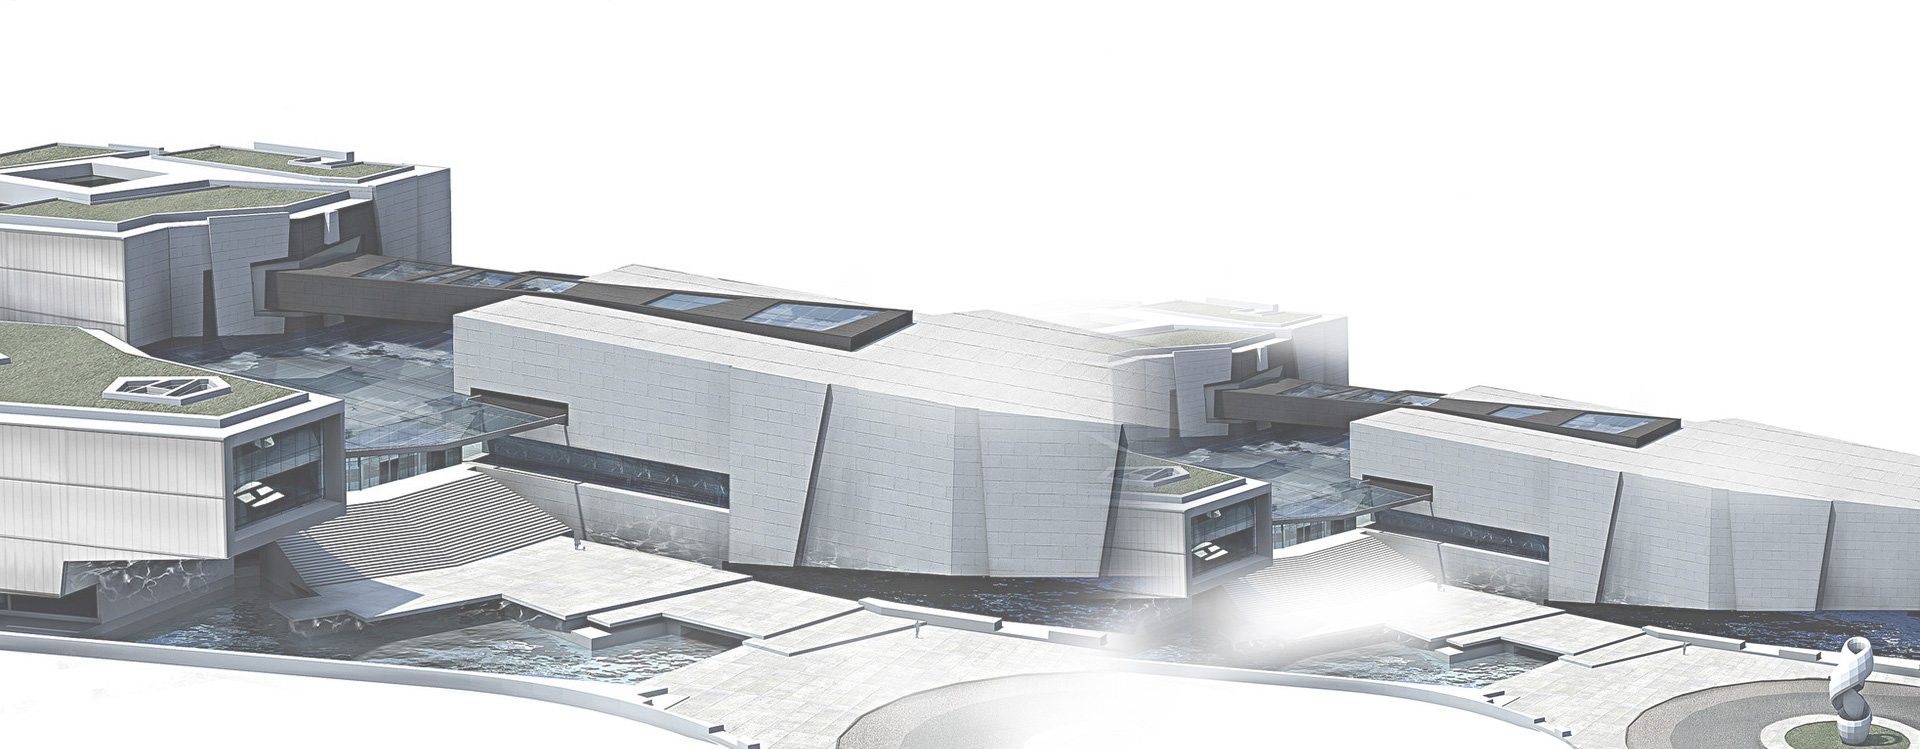
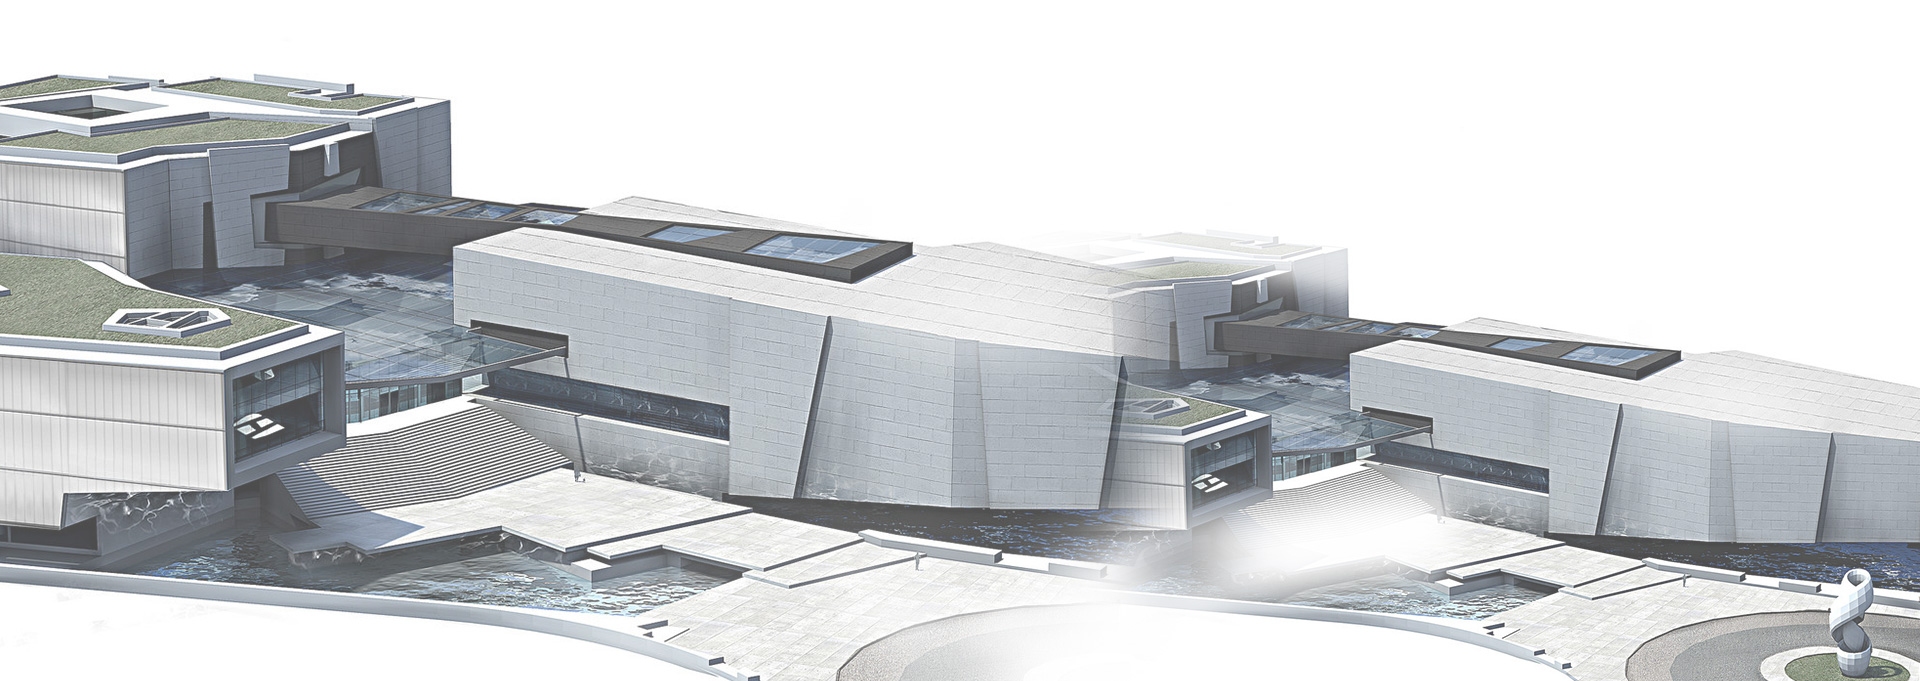
0.5.1

diff --git a/index.html b/index.html
@@ -1,156 +1,197 @@
 <!DOCTYPE html>
 <html lang="ru">
 
-    <head>
-        <meta charset="UTF-8">
-        <title>Novaboard</title>
+<head>
+    <meta charset="UTF-8">
+    <title>Novaboard</title>
 
-        <link rel="apple-touch-icon" sizes="180x180" href="favicons/apple-touch-icon.png">
-        <link rel="icon" type="image/png" sizes="32x32" href="favicons/favicon-32x32.png">
-        <link rel="icon" type="image/png" sizes="16x16" href="favicons/favicon-16x16.png">
-        <link rel="manifest" href="favicons/site.webmanifest">
-        <link rel="mask-icon" href="favicons/safari-pinned-tab.svg" color="#5bbad5">
-        <link rel="shortcut icon" href="favicons/favicon.ico">
-        <meta name="apple-mobile-web-app-title" content="Novaboard">
-        <meta name="application-name" content="Novaboard">
-        <meta name="msapplication-TileColor" content="#603cba">
-        <meta name="msapplication-config" content="favicons/browserconfig.xml">
-        <meta name="theme-color" content="#ffffff">
+    <link rel="apple-touch-icon" sizes="180x180" href="favicons/apple-touch-icon.png">
+    <link rel="icon" type="image/png" sizes="32x32" href="favicons/favicon-32x32.png">
+    <link rel="icon" type="image/png" sizes="16x16" href="favicons/favicon-16x16.png">
+    <link rel="manifest" href="favicons/site.webmanifest">
+    <link rel="mask-icon" href="favicons/safari-pinned-tab.svg" color="#5bbad5">
+    <link rel="shortcut icon" href="favicons/favicon.ico">
+    <meta name="apple-mobile-web-app-title" content="Novaboard">
+    <meta name="application-name" content="Novaboard">
+    <meta name="msapplication-TileColor" content="#603cba">
+    <meta name="msapplication-config" content="favicons/browserconfig.xml">
+    <meta name="theme-color" content="#ffffff">
 
-        <link rel="stylesheet" href="css/slick.css">
-        <link rel="stylesheet" href="css/slick-theme.css">
-        <link rel="stylesheet" href="css/style.css">
-    </head>
+    <link rel="stylesheet" href="css/slick.css">
+    <link rel="stylesheet" href="css/slick-theme.css">
+    <link rel="stylesheet" href="css/style.css">
+</head>
 
-    <body>
-        <header class="header">
-            <div class="container__out">
-                <div class="container">
-                    <div class="header__content">
-                        <nav class="header__navigation">
-                            <ul class="header__menu">
-                                <li class="header__item">
-                                    <a href="" class="header__link is-active">Главная</a>
-                                </li>
-                                <li class="header__item">
-                                    <a href="" class="header__link">О компании</a>
-                                </li>
-                                <li class="header__item">
-                                    <a href="" class="header__link">Вакансии</a>
-                                </li>
-                                <li class="header__item">
-                                    <a href="" class="header__link">Продукция</a>
-                                </li>
-                                <li class="header__item">
-                                    <a href="" class="header__link">Фотогалерея</a>
-                                </li>
-                                <li class="header__item">
-                                    <a href="" class="header__link">Новости</a>
-                                </li>
-                                <li class="header__item">
-                                    <a href="" class="header__link">Статьи</a>
-                                </li>
-                                <li class="header__item">
-                                    <a href="" class="header__link">Контакты</a>
-                                </li>
-                            </ul>
-                        </nav>
-                    </div>
+<body>
+    <header class="header">
+        <div class="container__out">
+            <div class="container">
+                <div class="header__content">
+                    <nav class="header__navigation">
+                        <ul class="header__menu">
+                            <li class="header__item">
+                                <a href="" class="header__link is-active">Главная</a>
+                            </li>
+                            <li class="header__item">
+                                <a href="" class="header__link">О компании</a>
+                            </li>
+                            <li class="header__item">
+                                <a href="" class="header__link">Вакансии</a>
+                            </li>
+                            <li class="header__item">
+                                <a href="" class="header__link">Продукция</a>
+                            </li>
+                            <li class="header__item">
+                                <a href="" class="header__link">Фотогалерея</a>
+                            </li>
+                            <li class="header__item">
+                                <a href="" class="header__link">Новости</a>
+                            </li>
+                            <li class="header__item">
+                                <a href="" class="header__link">Статьи</a>
+                            </li>
+                            <li class="header__item">
+                                <a href="" class="header__link">Контакты</a>
+                            </li>
+                        </ul>
+                    </nav>
                 </div>
             </div>
-        </header>
-        <div class="title">
-            <div class="title__shadow">
-                <img src="image/shadow-1.png" alt="" class="title__shadow-image">
-            </div>
-            <div class="container__out">
-                <div class="container">
-                    <div class="title__heading">
-                        <div class="title__heading-logo">
-                            <a href="index.html" class="title__heading-logo-link"><img src="image/logo.png" alt="" class="title__heading-logo-image"></a>
+        </div>
+    </header>
+    <div class="title">
+        <div class="title__shadow">
+            <img src="image/shadow-1.png" alt="" class="title__shadow-image">
+        </div>
+        <div class="container__out">
+            <div class="container">
+                <div class="title__heading">
+                    <div class="title__heading-logo">
+                        <a href="index.html" class="title__heading-logo-link"><img src="image/logo.png" alt=""
+                                class="title__heading-logo-image"></a>
+                    </div>
+                    <div class="title__heading-contacts">
+                        <div class="title__heading-social">
+                            <span class="title__heading-social-text">Мы в социальных сетях</span>
+                            <a href="https://www.linkedin.com/" target="_blank"
+                                class="title__heading-social-li-link"><img src="image/linkedin.png" alt=""
+                                    class="title__heading-social-li-image"></a>
+                            <a href="https://vk.com/" target="_blank" class="title__heading-social-vk-link"><img
+                                    src="image/vk.png" alt="" class="title__heading-social-vk-image"></a>
                         </div>
-                        <div class="title__heading-contacts">
-                            <div class="title__heading-social">
-                                <span class="title__heading-social-text">Мы в социальных сетях</span>
-                                <a href="https://www.linkedin.com/" target="_blank" class="title__heading-social-li-link"><img src="image/linkedin.png" alt="" class="title__heading-social-li-image"></a>
-                                <a href="https://vk.com/" target="_blank" class="title__heading-social-vk-link"><img src="image/vk.png" alt="" class="title__heading-social-vk-image"></a>
-                            </div>
-                            <div class="title__heading-telephone">тел:<a href="tel:+380552314410" class="title__heading-telephone-link">+38(0552)314-410</a>,
-                                <a href="tel:+380552314403" class="title__heading-telephone-link">314-403</a>; факс:<a href="tel:+380552359214" class="title__heading-telephone-link">+38(0552)359-214</a><br>
-                                e-mail:<a href="mailto:info@penoboard.com" class="title__heading-telephone-link">info@penoboard.com</a>
-                            </div>
-                            <div class="title__heading-contacts-search">
-                                <form action="#" class="title__heading-contacts-search-form">
-                                    <input type="search" class="title__heading-contacts-search-input">
-                                    <button type="submit" class="title__heading-contacts-search-submit"><img src="image/submit.png" alt=""></button>
-                                </form>
+                        <div class="title__heading-telephone">тел:<a href="tel:+380552314410"
+                                class="title__heading-telephone-link">+38(0552)314-410</a>,
+                            <a href="tel:+380552314403" class="title__heading-telephone-link">314-403</a>; факс:<a
+                                href="tel:+380552359214" class="title__heading-telephone-link">+38(0552)359-214</a><br>
+                            e-mail:<a href="mailto:info@penoboard.com"
+                                class="title__heading-telephone-link">info@penoboard.com</a>
+                        </div>
+                        <div class="title__heading-contacts-search">
+                            <form action="#" class="title__heading-contacts-search-form">
+                                <input type="search" class="title__heading-contacts-search-input">
+                                <button type="submit" class="title__heading-contacts-search-submit"><img
+                                        src="image/submit.png" alt=""></button>
+                            </form>
+                        </div>
+                    </div>
+                </div>
+                <div class="title__slider js-title__slider">
+                    <div>
+                        <div class="title__slider-slide" style="background-image:url(image/slide-1.jpg);">
+                            <div class="title__slider-slide-text">
+                                <div class="title__slider-slide-text-string1">сегодня инновация -<br>завтра
+                                    необходимость</div>
+                                <div class="title__slider-slide-text-string2">энергосбережение нового поколения</div>
                             </div>
                         </div>
                     </div>
-                    <div class="title__slider js-title__slider">
-                        <div>
-                            <div class="title__slider-slide" style="background-image:url(image/slide-1.jpg);">
-                                <div class="title__slider-slide-text">
-                                    <div class="title__slider-slide-text-string1">сегодня инновация -<br>завтра необходимость</div>
-                                    <div class="title__slider-slide-text-string2">энергосбережение нового поколения</div>
-                                </div>
+                    <div>
+                        <div class="title__slider-slide" style="background-image:url(image/slide-2.jpg);">
+                            <div class="title__slider-slide-text">
+                                <div class="title__slider-slide-text-string1">сегодня инновация -<br>завтра
+                                    необходимость</div>
+                                <div class="title__slider-slide-text-string2">высокие экологические стандарты</div>
                             </div>
                         </div>
-                        <div>
-                            <div class="title__slider-slide" style="background-image:url(image/slide-2.jpg);">
-                                <div class="title__slider-slide-text">
-                                    <div class="title__slider-slide-text-string1">сегодня инновация -<br>завтра необходимость</div>
-                                    <div class="title__slider-slide-text-string2">высокие экологические стандарты</div>
-                                </div>
+                    </div>
+                    <div>
+                        <div class="title__slider-slide" style="background-image:url(image/slide-3.jpg);">
+                            <div class="title__slider-slide-text">
+                                <div class="title__slider-slide-text-string1">сегодня инновация -<br>завтра
+                                    необходимость</div>
+                                <div class="title__slider-slide-text-string2">снижение трат на отопление</div>
                             </div>
                         </div>
-                        <div>
-                            <div class="title__slider-slide" style="background-image:url(image/slide-3.jpg);">
-                                <div class="title__slider-slide-text">
-                                    <div class="title__slider-slide-text-string1">сегодня инновация -<br>завтра необходимость</div>
-                                    <div class="title__slider-slide-text-string2">снижение трат на отоплении</div>
-                                </div>
+                    </div>
+                    <div>
+                        <div class="title__slider-slide" style="background-image:url(image/slide-4.jpg);">
+                            <div class="title__slider-slide-text">
+                                <div class="title__slider-slide-text-string1">сегодня инновация -<br>завтра
+                                    необходимость</div>
+                                <div class="title__slider-slide-text-string2">полная пожаробезопасность</div>
                             </div>
                         </div>
-                        <div>
-                            <div class="title__slider-slide" style="background-image:url(image/slide-4.jpg);">
-                                <div class="title__slider-slide-text">
-                                    <div class="title__slider-slide-text-string1">сегодня инновация -<br>завтра необходимость</div>
-                                    <div class="title__slider-slide-text-string2">полная пожаробезопасность</div>
-                                </div>
-                            </div>
-                        </div>
-                        <div>
-                            <div class="title__slider-slide" style="background-image:url(image/slide-5.jpg);">
-                                <div class="title__slider-slide-text">
-                                    <div class="title__slider-slide-text-string1">сегодня инновация -<br>завтра необходимость</div>
-                                    <div class="title__slider-slide-text-string2">экономия традиционных ресурсов</div>
-                                </div>
+                    </div>
+                    <div>
+                        <div class="title__slider-slide" style="background-image:url(image/slide-5.jpg);">
+                            <div class="title__slider-slide-text">
+                                <div class="title__slider-slide-text-string1">сегодня инновация -<br>завтра
+                                    необходимость</div>
+                                <div class="title__slider-slide-text-string2">экономия традиционных ресурсов</div>
                             </div>
                         </div>
                     </div>
                 </div>
             </div>
         </div>
-        <div class="polystyrene">
-            <div class="container__out">
-                <div class="container">
-                    <div class="polystyrene__content">
-                        <div class="polystyrene__content-logo">
-                            <img src="image/logo-2.png" alt="" class="polystyrene__content-logo-image">
-                        </div>
-                        <div class="polystyrene__content-title">
-                            Экструдированный  пенополистирол
-                        </div>
-                        <div class="polystyrene__content-youtube">
-                            <iframe width="572" height="314" src="https://www.youtube.com/embed/yfl3AbO-tAU" title="YouTube video player" frameborder="0" allow="accelerometer; autoplay; clipboard-write; encrypted-media; gyroscope; picture-in-picture" allowfullscreen></iframe>
-                        </div>
+    </div>
+    <div class="polystyrene">
+        <div class="container__out">
+            <div class="container">
+                <div class="polystyrene__content">
+                    <div class="polystyrene__content-logo">
+                        <img src="image/logo-2.png" alt="" class="polystyrene__content-logo-image">
+                    </div>
+                    <div class="polystyrene__content-title">
+                        Экструдированный пенополистирол
+                    </div>
+                    <div class="polystyrene__content-youtube">
+                        <iframe width="572" height="316" src="https://www.youtube.com/embed/yfl3AbO-tAU"
+                            title="YouTube video player" frameborder="0"
+                            allow="accelerometer; autoplay; clipboard-write; encrypted-media; gyroscope; picture-in-picture"
+                            allowfullscreen></iframe>
+                    </div>
+                    <div class="polystyrene__content-text">
+                        <p>
+                            Многолетний опыт применения экструдированного пенополистирола в различных отраслях
+                            строительства доказывает высокую эффективность его использования. Наша компания производит
+                            экструдированный пенополистирол на высококачественном европейском оборудовании, соблюдая
+                            мировые стандарты качества.
+                        </p>
+                        <p>
+                            Торговая марка
+                            <b>NOVABOARD</b>
+                            много лет на украинском рынке и за это время мы не только вышли на лидирующие позиции, но и
+                            доказали, что NOVABOARD – это гарантия качества, проверенная временем. Наш бренд - это наша
+                            репутация.
+                            Мы завоевываем ее, легко справляясь с любыми задачами. Это понимают наши партнеры в процессе
+                            взаимодействия с нами.
+                        </p>
+                    </div>
+                    <div class="polystyrene__content-details">
+                        <form action="https://w.wiki/4ULR">
+                            <button formtarget="_blank" class="polystyrene__content-details-button">
+                                узнать подробнее
+                            </button>
+                        </form>
                     </div>
                 </div>
             </div>
         </div>
-        <script src="js/jquery-3.6.0.min.js"></script>
-        <script src="js/slick.min.js"></script>
-        <script src="js/script.js"></script>
-    </body>
+    </div>
+    <script src="js/jquery-3.6.0.min.js"></script>
+    <script src="js/slick.min.js"></script>
+    <script src="js/script.js"></script>
+</body>
+
 </html>

diff --git a/css/style.css b/css/style.css
@@ -70,7 +70,7 @@ body {
   background-image: url("../image/art-museum-render.jpg");
   background-position: top;
   background-repeat: no-repeat;
-  background-size: cover;
+  background-size: auto;
   height: 681px;
 }
 
@@ -187,7 +187,7 @@ body {
   bottom: 36px;
   left: 0;
   padding: 35px 56px 8px 25px;
-  background-color: rgba(0, 0, 0, 0.5);
+  background-color: rgba(0, 0, 0, 0.4);
 }
 
 .title__slider-slide-text-string1 {
@@ -235,7 +235,7 @@ body {
   background-image: url("../image/penopolistirol.jpg");
   background-position: top;
   background-repeat: no-repeat;
-  background-size: cover;
+  background-size: auto;
 }
 
 .polystyrene__content {
@@ -264,4 +264,43 @@ body {
 
 .polystyrene__content-youtube {
   border: 1px solid #252b2f;
+  display: flex;
+}
+
+.polystyrene__content-text {
+  max-width: 850px;
+  margin-top: 57px;
+  margin-bottom: 24px;
+  font-family: Arial, Helvetica, sans-serif;
+  font-size: 14px;
+  text-align: center;
+  letter-spacing: 0.4px;
+}
+
+.polystyrene__content-text * {
+  margin-bottom: 1.4em;
+}
+
+.polystyrene__content-details-button {
+  width: 413px;
+  height: 61px;
+  background-color: inherit;
+  background-image: url("../image/details.png");
+  border: none;
+  cursor: pointer;
+  font-family: EuropeExt, Arial, Helvetica, sans-serif;
+  font-size: 24px;
+  font-weight: bold;
+  text-transform: uppercase;
+  color: #fff;
+  text-shadow: 0 1px #909090, 0 0 2px #e9e9e9;
+}
+
+.polystyrene__content-details-button:hover {
+  filter: saturate(130%);
+}
+
+.polystyrene__content-details-button:active {
+  filter: saturate(80%);
+  transform: translateY(2px);
 }
